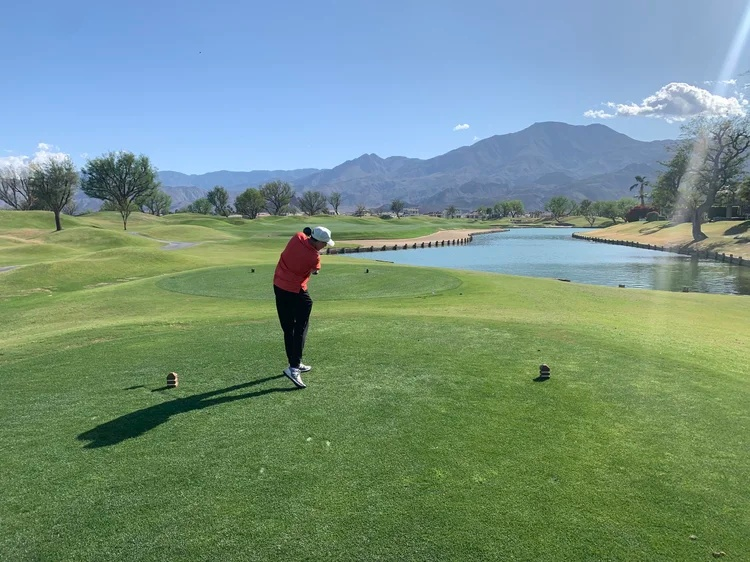
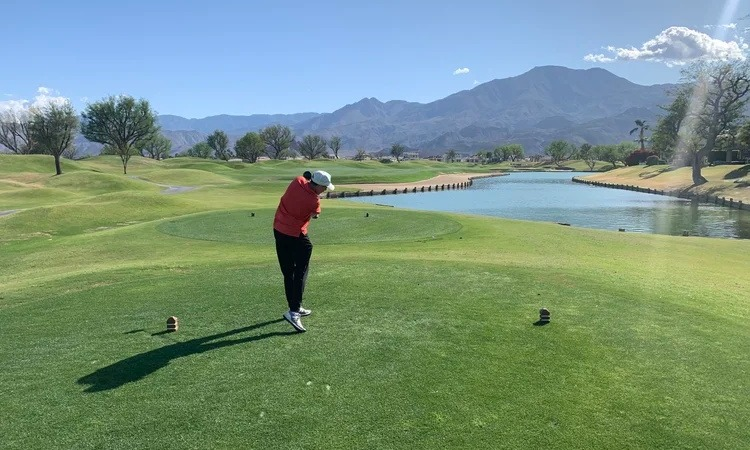
Rework About hero into responsive two-column layout
Cropped the golf photo 10% off top and bottom (750x562 -> 750x450)
for a wider, more panoramic frame. Restructured the photo + intro
paragraphs into a flex row (image left, copy right) that scales
fluidly with the window instead of sitting at fixed small sizes
pinned to the left - matches the pattern used elsewhere on the
site (e.g. individual-therapy's "What to expect" layout). Wraps
to a stacked image-then-copy layout on narrow screens via
flex-wrap, with both elements sized off flex-basis/min-width
rather than fixed pixels.

Also fixed two mobile horizontal-overflow bugs surfaced while
testing this at narrow widths, both on this same page:
- The H1's minimum font-size (48px from its clamp) could let a
  single word overflow its box at very narrow viewports; added
  overflow-wrap:break-word as a standard safety net.
- The founder-portrait image further down had flex-shrink:0 and
  a fixed 360px width, which doesn't shrink on narrow screens.
  Switched to width:100%/max-width:360px like the other photos
  on the site.

diff --git a/about.html b/about.html
@@ -171,16 +171,20 @@
 
 <section style="background:var(--color-ink);color:var(--text-on-inverse);padding:110px var(--container-pad) 90px;display:flex;flex-direction:column;gap:28px;">
   <span class="eyebrow">About Brian</span>
-  <h1 style="font:var(--text-display-xl);font-family:var(--font-display);text-transform:uppercase;margin:0;">Hello and welcome.<br>Now watch this drive.</h1>
-  <img src="assets/photos/golf-drive.jpg" alt="Brian Mulligan teeing off on a golf course" style="width:100%;max-width:750px;height:auto;display:block;">
-  <p style="font:var(--text-body-lg);max-width:620px;color:var(--text-on-inverse-secondary);margin:0;">I'm Brian, a Licensed Professional Counselor Candidate and Certified Addiction Technician in Colorado, and a bad golfer (that shot went in the water). I focus on working with adult men who contend with anxiety, depression, life transitions, career dissatisfaction, anger, and substance use concerns.</p>
-  <p style="font:var(--text-body-lg);max-width:620px;color:var(--text-on-inverse-secondary);margin:0;">When people talk about "holding space", I don't know what that means. If someone just wants to talk, they can do that with a friend, family member, or coworker for free. What I focus on is helping people make meaningful change in their lives, because that is what they are investing in. I work hard for my clients because your time is valuable, and therapy should produce results.</p>
-  <p style="font:var(--text-body-lg);max-width:620px;color:var(--text-on-inverse-secondary);margin:0;">Let's take all this space we're holding and do something with it.</p>
+  <h1 style="font:var(--text-display-xl);font-family:var(--font-display);text-transform:uppercase;margin:0;overflow-wrap:break-word;">Hello and welcome.<br>Now watch this drive.</h1>
+  <div style="display:flex;gap:40px;flex-wrap:wrap;align-items:flex-start;">
+    <img src="assets/photos/golf-drive.jpg" alt="Brian Mulligan teeing off on a golf course" style="flex:3 1 400px;max-width:750px;width:100%;height:auto;display:block;">
+    <div style="flex:2 1 300px;min-width:280px;display:flex;flex-direction:column;gap:20px;">
+      <p style="font:var(--text-body-lg);color:var(--text-on-inverse-secondary);margin:0;">I'm Brian, a Licensed Professional Counselor Candidate and Certified Addiction Technician in Colorado, and a bad golfer (that shot went in the water). I focus on working with adult men who contend with anxiety, depression, life transitions, career dissatisfaction, anger, and substance use concerns.</p>
+      <p style="font:var(--text-body-lg);color:var(--text-on-inverse-secondary);margin:0;">When people talk about "holding space", I don't know what that means. If someone just wants to talk, they can do that with a friend, family member, or coworker for free. What I focus on is helping people make meaningful change in their lives, because that is what they are investing in. I work hard for my clients because your time is valuable, and therapy should produce results.</p>
+      <p style="font:var(--text-body-lg);color:var(--text-on-inverse-secondary);margin:0;">Let's take all this space we're holding and do something with it.</p>
+    </div>
+  </div>
 </section>
 
 <section style="padding:80px var(--container-pad);display:flex;gap:40px;align-items:flex-start;flex-wrap:wrap;">
-  <div style="display:flex;flex-direction:column;gap:14px;flex-shrink:0;">
-    <img src="assets/photos/founder-portrait.png" alt="Brian Mulligan portrait" style="width:360px;height:440px;object-fit:cover;">
+  <div style="display:flex;flex-direction:column;gap:14px;max-width:360px;">
+    <img src="assets/photos/founder-portrait.png" alt="Brian Mulligan portrait" style="width:100%;max-width:360px;height:auto;display:block;">
     <div style="font:var(--text-body-lg);font-weight:700;color:var(--text-primary);">Brian Mulligan, LPCC, CAT, Owner</div>
   </div>
   <div style="max-width:560px;display:flex;flex-direction:column;gap:20px;">
